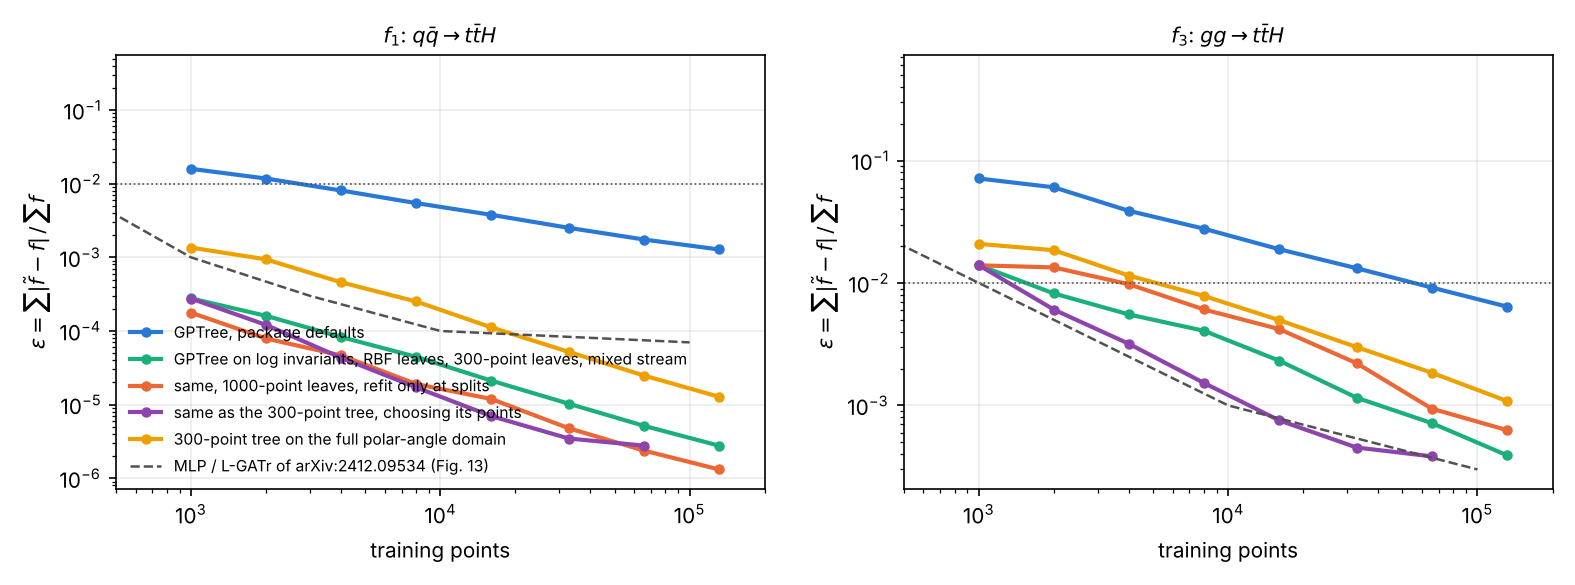
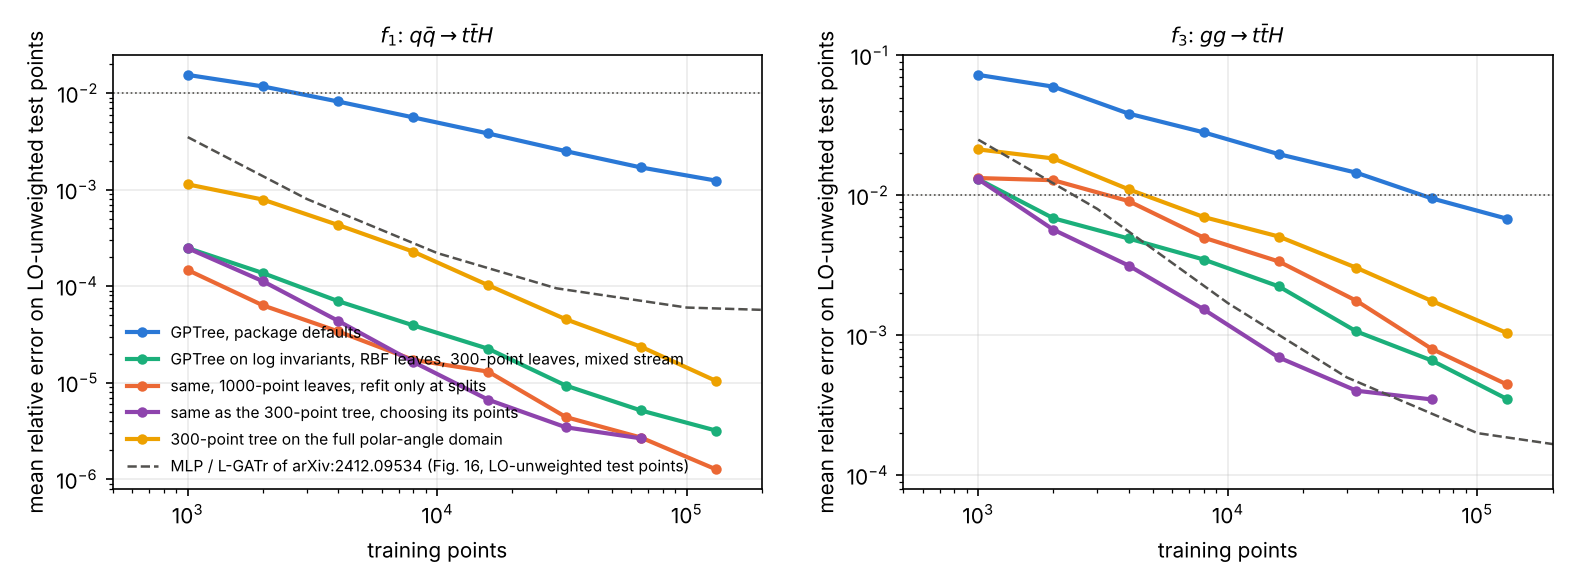
Cite the networks' Figure 16 and compare on their LO-unweighted metric
The reference curves were read from Figure 13 of arXiv:2412.09534, which
shows the sparse grids; the networks are in Figure 16, trained and tested
on unweighted samples. The figure and the tables now use those values on
the same metric, and the f3 conclusion is a factor 2 behind, not level.

Claude-Session: https://claude.ai/code/session_0153hpVKJ5JPDq5CRhfaL7QL

diff --git a/examples/plot_tth_results.py b/examples/plot_tth_results.py
@@ -1,10 +1,11 @@
 """Figures for the 5D ttH benchmark: eps against the number of training points, from the
 result files of tth_amplitude_benchmark.py, with the networks of arXiv:2412.09534
-(values read off their Figure 13) as reference.
+(values read off their Figure 16, on LO-unweighted test points) as reference.
 
 eps_vs_points.png: the package defaults (tree, tree choosing its points, hybrid, larger network).
 eps_vs_points_improved.png: log-invariant inputs, RBF leaves and f-weighted training points.
-eps_vs_points_paper_weights.png: the same with the paper's weights (flux and pseudo-PDF factor).
+eps_vs_points_paper_weights.png: the same with the paper's weights (flux and pseudo-PDF factor), on
+the networks' metric, the mean relative error on LO-unweighted test points.
 
 Usage: python plot_tth_results.py [results_dir]
 """
@@ -19,9 +20,13 @@ import matplotlib.pyplot as plt
 HERE = os.path.dirname(os.path.abspath(__file__))
 OUT_DIR = sys.argv[1] if len(sys.argv) > 1 else os.path.join(HERE, "results", "tth_amplitude")
 NAMES = {"uu": r"$f_1$: $q\bar q \to t\bar t H$", "gg": r"$f_3$: $gg \to t\bar t H$"}
-# MLP and L-GATr of arXiv:2412.09534, Figure 13, read off the plot (uniform test sampling)
-REFERENCE = {"uu": [(10, 0.3), (100, 0.03), (300, 0.01), (1000, 1e-3), (3000, 3e-4), (1e4, 1e-4), (1e5, 7e-5)],
-             "gg": [(10, 0.5), (100, 0.1), (1000, 1e-2), (1e4, 1e-3), (1e5, 3e-4)]}
+# MLP(s) and L-GATr of arXiv:2412.09534, Figure 16: the mean relative error on LO-unweighted test points
+# (their eq. 30), read off the plot by pixel position; the two networks agree to 10-20 %, the mean is given
+REFERENCE = {"uu": [(1000, 3.5e-3), (3000, 8e-4), (1e4, 2.2e-4), (3e4, 9.5e-5), (1e5, 6e-5), (1e6, 5e-5)],
+             "gg": [(1000, 2.5e-2), (3000, 8e-3), (1e4, 1.7e-3), (3e4, 5e-4), (1e5, 2e-4), (1e6, 1.1e-4)]}
+# the metric each figure plots: the paper-weights figure uses the networks' metric
+METRIC = {"eps_vs_points_paper_weights.png": ("eps_unweighted", r"mean relative error on LO-unweighted test points")}
+DEFAULT_METRIC = ("eps_uniform", r"$\epsilon = \sum|\tilde f - f| \,/\, \sum f$ (uniform test points)")
 COLORS = ["#2a78d6", "#1baf7a", "#eb6834", "#8e44ad", "#eda100"]
 
 # (file tag, key suffix, label) per series; {ch} is the channel
@@ -59,18 +64,19 @@ def rows_of(tag, ch, key):
 
 
 for name, series in FIGURES.items():
+    metric, ylabel = METRIC.get(name, DEFAULT_METRIC)
     fig, axes = plt.subplots(1, 2, figsize=(10.5, 3.9))
     for ax, ch in zip(axes, ["uu", "gg"]):
         for (tag, key, label), color in zip(series, COLORS):
             rows = rows_of(tag, ch, key)
             if rows:
-                ax.plot([r["N"] for r in rows], [r["eps_uniform"] for r in rows], "-o", color=color, lw=2, ms=4, label=label)
+                ax.plot([r["N"] for r in rows], [r.get(metric, r["eps_uniform"]) for r in rows], "-o", color=color, lw=2, ms=4, label=label)
         ref = REFERENCE[ch]
         ax.plot([n for n, _ in ref], [e for _, e in ref], "--", color="#52514e", lw=1.2,
-                label="MLP / L-GATr of arXiv:2412.09534 (Fig. 13)")
+                label="MLP / L-GATr of arXiv:2412.09534 (Fig. 16, LO-unweighted test points)")
         ax.axhline(0.01, color="#52514e", lw=0.8, ls=":")
         ax.set_xscale("log"); ax.set_yscale("log"); ax.set_xlim(500, 2e5)
-        ax.set_xlabel("training points"); ax.set_ylabel(r"$\epsilon = \sum|\tilde f - f| \,/\, \sum f$")
+        ax.set_xlabel("training points"); ax.set_ylabel(ylabel)
         ax.set_title(NAMES[ch], fontsize=10); ax.grid(alpha=0.25)
     axes[0].legend(frameon=False, fontsize=7.5, loc="lower left")
     fig.tight_layout()

diff --git a/examples/BENCHMARK_RESULTS_tth_amplitude.md b/examples/BENCHMARK_RESULTS_tth_amplitude.md
@@ -48,47 +48,54 @@ takes the ten `log(p_i · p_j)` as inputs, RBF leaves of 300 or 1000 points, and
 
 ## 2. Results with the paper's weights
 
-`eps_vs_points_paper_weights.png`; ε on the uniform test set, seed 1, one run each.
-Networks: the MLP and L-GATr curves of the paper's Figure 13, read off the plot.
+`eps_vs_points_paper_weights.png`; the networks' metric, the mean relative error on
+LO-unweighted test points (their eq. 30), seed 1, one run each. Networks: the MLP(s)
+and L-GATr curves of the paper's Figure 16 (trained and tested on unweighted
+samples), read off the plot by pixel position; the two agree to 10–20 %, the mean is
+quoted. ε on uniform test points (their eq. 28) is within 20 % of these values for
+every row.
 
-| configuration (ε on the uniform test set, paper's weights) | f1 @4000 | f1 @16000 | f1 @65536 | f1 @131072 | f3 @4000 | f3 @16000 | f3 @65536 | f3 @131072 |
+| configuration (mean relative error on LO-unweighted test points, paper's weights) | f1 @4000 | f1 @16000 | f1 @65536 | f1 @131072 | f3 @4000 | f3 @16000 | f3 @65536 | f3 @131072 |
 |---|---|---|---|---|---|---|---|---|
-| tree, package defaults (cube inputs, Matérn 3/2, Nbar 100, Sobol) | 8.09e-03 | 3.78e-03 | 1.75e-03 | 1.28e-03 | 3.88e-02 | 1.89e-02 | 9.17e-03 | 6.42e-03 |
-| tree on log invariants, RBF leaves, Nbar 300, mixed stream | 8.27e-05 | 2.12e-05 | 5.16e-06 | 2.77e-06 | 5.53e-03 | 2.32e-03 | 7.17e-04 | 3.92e-04 |
-| tree on log invariants, RBF leaves, Nbar 1000 refit only at splits, mixed stream | 4.65e-05 | 1.19e-05 | 2.38e-06 | 1.32e-06 | 9.76e-03 | 4.20e-03 | 9.41e-04 | 6.29e-04 |
-| tree on log invariants, RBF leaves, Nbar 300, importance-sampled stream | 1.22e-04 | 3.07e-05 | 7.55e-06 | – | 6.44e-03 | 2.28e-03 | 7.34e-04 | – |
-| tree on log invariants, RBF leaves, Nbar 1000 refit only at splits, importance-sampled stream | 6.87e-05 | 1.67e-05 | 4.33e-06 | – | 7.02e-03 | 3.05e-03 | 8.13e-04 | – |
-| tree on log invariants, RBF leaves, Nbar 300, chooses its points from the mixed pool | 4.33e-05 | 6.99e-06 | 2.78e-06 | – | 3.18e-03 | 7.56e-04 | 3.84e-04 | – |
-| tree on log invariants, RBF leaves, Nbar 300, importance-sampled stream with 20 % KDE-targeted points | – | – | – | – | 5.32e-03 | 1.76e-03 | 5.78e-04 | – |
-| the same stream with the KDE points after the first 16 384 | – | – | – | – | 6.44e-03 | 2.28e-03 | 6.10e-04 | – |
-| FULL DOMAIN: tree, package defaults | 1.63e-02 | 8.00e-03 | 3.52e-03 | 2.58e-03 | 7.29e-02 | 3.77e-02 | 1.87e-02 | 1.36e-02 |
-| FULL DOMAIN: tree on log invariants, RBF leaves, Nbar 300, mixed stream | 4.58e-04 | 1.12e-04 | 2.48e-05 | 1.28e-05 | 1.15e-02 | 4.97e-03 | 1.85e-03 | 1.09e-03 |
-| FULL DOMAIN: tree on log invariants, RBF leaves, Nbar 1000 refit only at splits, mixed stream | 4.53e-04 | 1.08e-04 | 2.24e-05 | 8.07e-06 | 1.91e-02 | 5.90e-03 | 2.05e-03 | 1.09e-03 |
-| MLP / L-GATr of arXiv:2412.09534, Fig. 13 (read off the plot) | 3e-4 | 9e-5 | 8e-5 | 7e-5 | 7e-3 | 8e-4 | 4e-4 | 3e-4 |
+| tree, package defaults (cube inputs, Matérn 3/2, Nbar 100, Sobol) | 8.19e-03 | 3.82e-03 | 1.70e-03 | 1.24e-03 | 3.84e-02 | 1.97e-02 | 9.52e-03 | 6.82e-03 |
+| tree on log invariants, RBF leaves, Nbar 300, mixed stream | 7.00e-05 | 2.24e-05 | 5.15e-06 | 3.18e-06 | 4.92e-03 | 2.24e-03 | 6.61e-04 | 3.51e-04 |
+| tree on log invariants, RBF leaves, Nbar 1000 refit only at splits, mixed stream | 3.40e-05 | 1.30e-05 | 2.70e-06 | 1.26e-06 | 9.11e-03 | 3.37e-03 | 8.01e-04 | 4.46e-04 |
+| tree on log invariants, RBF leaves, Nbar 300, importance-sampled stream | 9.14e-05 | 2.10e-05 | 6.03e-06 | – | 5.33e-03 | 2.01e-03 | 6.13e-04 | – |
+| tree on log invariants, RBF leaves, Nbar 1000 refit only at splits, importance-sampled stream | 5.56e-05 | 1.30e-05 | 2.97e-06 | – | 5.32e-03 | 2.32e-03 | 6.04e-04 | – |
+| tree on log invariants, RBF leaves, Nbar 300, chooses its points from the mixed pool | 4.37e-05 | 6.65e-06 | 2.65e-06 | – | 3.15e-03 | 6.94e-04 | 3.48e-04 | – |
+| tree on log invariants, RBF leaves, Nbar 300, importance-sampled stream with 20 % KDE-targeted points | – | – | – | – | 4.71e-03 | 1.72e-03 | 5.68e-04 | – |
+| the same stream with the KDE points after the first 16 384 | – | – | – | – | 5.33e-03 | 2.01e-03 | 5.38e-04 | – |
+| FULL DOMAIN: tree, package defaults | 1.57e-02 | 7.54e-03 | 3.44e-03 | 2.53e-03 | 6.94e-02 | 3.75e-02 | 1.79e-02 | 1.33e-02 |
+| FULL DOMAIN: tree on log invariants, RBF leaves, Nbar 300, mixed stream | 4.31e-04 | 1.02e-04 | 2.35e-05 | 1.04e-05 | 1.11e-02 | 5.08e-03 | 1.76e-03 | 1.04e-03 |
+| FULL DOMAIN: tree on log invariants, RBF leaves, Nbar 1000 refit only at splits, mixed stream | 3.75e-04 | 9.31e-05 | 2.04e-05 | 7.89e-06 | 1.97e-02 | 6.92e-03 | 2.23e-03 | 1.09e-03 |
+| MLP(s) / L-GATr of arXiv:2412.09534, Fig. 16 (read off the plot) | 6e-4 | 1.6e-4 | 6.8e-5 | 5.6e-5 | 5.5e-3 | 1.1e-3 | 2.7e-4 | 1.7e-4 |
 
 ### 2.1 Against the paper's networks
 
-* **f1 is won by 25 to 50 times.** The 300-point tree on the invariants reaches
-  2.8e-6 at 131 072 points (median relative error 4e-7, every test point within
-  1 %) against the networks' 7e-5 at 10⁵; the 1000-point tree refitted only at
-  splits reaches 1.3e-6, and both curves keep falling as N⁻¹ where the networks'
-  flatten. Choosing its points, the 300-point tree is at 7.0e-6 at 16 000, where
-  the networks are at 9e-5.
-* **f3 is level with the networks.** The 300-point tree on the mixed stream ends
-  at 3.9e-4 against their 3e-4 at 10⁵; choosing its points it follows their curve
-  from 16 000 on (7.6e-4 against 8e-4) and reaches 3.8e-4 at 65 536, where they
-  are near 4e-4. The 1000-point leaves that help f1 hurt f3 here (6.3e-4): under
-  the pseudo-PDF the error that counts sits at low β², near threshold, where the
-  amplitude varies fastest and the smaller, more often refitted leaves do better.
-* **The folding is worth a factor 3 to 5 at equal N** (1.3e-5 against 2.8e-6 on
-  f1, 1.1e-3 against 3.9e-4 on f3 at 131 072), as four times the point density
-  should give. On the full domain, which is what the networks were trained on, the
-  300-point tree is 5 times below them on f1 and 3.6 times above them on f3 at
-  131 072; 1000-point leaves bring f1 to 8.1e-6 and leave f3 at 1.1e-3. The
+* **f1 is far below the networks.** The 300-point tree on the mixed stream reaches
+  3.2e-6 at 131 072 points (median relative error 4e-7, every test point within
+  1 %) against the networks' 5.6e-5 at 1.3·10⁵, 18 times lower; the 1000-point
+  tree refitted only at splits reaches 1.3e-6, 44 times lower, and both curves
+  keep falling as N⁻¹ where the networks' flatten (5.6e-5 → 4.6e-5 from 10⁵ to
+  10⁶ points). Choosing its points, the 300-point tree is at 6.7e-6 at 16 000,
+  where the networks are at 1.6e-4.
+* **f3 is within a factor 2 of the networks.** The 300-point tree on the mixed
+  stream ends at 3.5e-4 against their 1.7e-4 at 1.3·10⁵; choosing its points it is
+  ahead of them at 16 000 (6.9e-4 against 1.1e-3) and 1.3 times behind at 65 536
+  (3.5e-4 against 2.7e-4). The 1000-point leaves that help f1 hurt f3 here
+  (4.5e-4): under the pseudo-PDF the error that counts sits at low β², near
+  threshold, where the amplitude varies fastest and the smaller, more often
+  refitted leaves do better. The networks' f3 curve also flattens (1.9e-4 at 10⁵,
+  1.1e-4 at 10⁶) while the tree's still falls as N⁻⁰·⁹.
+* **The folding is worth a factor 3 at equal N** (1.0e-5 against 3.2e-6 on f1,
+  1.0e-3 against 3.5e-4 on f3 at 131 072), as four times the point density should
+  give. On the full domain, which is what the networks were trained on, the
+  300-point tree is 5 times below them on f1 and 6 times above them on f3 at
+  131 072; 1000-point leaves bring f1 to 7.9e-6 and leave f3 at 1.1e-3. The
   folding is an exact symmetry, so it is legitimate for either side, but the two
   comparisons should be read with that in mind.
 * **The package defaults** (cube inputs, Matérn 3/2, 100-point leaves, Sobol) end
-  at 1.3e-3 and 6.4e-3: the representation, the leaf size and the stream are what
+  at 1.2e-3 and 6.8e-3: the representation, the leaf size and the stream are what
   separate them from the rows above, not the method.
 * **Cost.** 35–55 ms per update for the 300-point tree on the invariants on a
   shared four-core machine; the networks' cost is their training, which the paper
@@ -145,7 +152,8 @@ points there, each at 65 536 points with 300-point leaves:
   would expect.
 * The tree's own acquisition does what the resample does, continuously and with
   no second stage: a factor 1.9 at 65 536 and 3 at 16 000 over the mixed stream.
-  It is the one lever that brings f3 onto the networks' curve at every N.
+  It is the lever that brings f3 closest to the networks' curve: ahead of it at
+  16 000 points, 1.3 times behind at 65 536.
 * Under the paper's weights the pure LO-unweighted stream no longer helps (it
   gave 2 × on the flat-flux metric): 7.3e-4 against the mixed stream's 7.2e-4 with
   300-point leaves, 8.1e-4 with 1000-point ones, and on f1 it is worse (7.6e-6
@@ -233,19 +241,21 @@ with the same gate, whose calls it does not learn from.
 
 ## 3. Exact amplitudes (flat-flux weights): ε against the number of training points
 
-`eps_vs_points.png`; uniform-test ε, with the networks of the paper's Figure 13
-(MLP and L-GATr, read off the plot) for reference.
+`eps_vs_points.png`; uniform-test ε with flat-flux weights, with the networks of the
+paper's Figure 16 (MLP(s) and L-GATr on LO-unweighted test points with the paper's
+weights, read off the plot) for reference. The network columns are on a different
+metric, so they are indicative only; Section 2 has the like-for-like comparison.
 
 | points | f1 tree | f1 acq | f1 hybrid | f1 hybrid, 4 × 256 | f1 paper's networks | f3 tree | f3 acq | f3 hybrid | f3 hybrid, 4 × 256 | f3 paper's networks |
 |---|---|---|---|---|---|---|---|---|---|---|
-| 1000 | 2.7e-2 | 2.7e-2 | 1.8e-2 | 1.5e-2 | 1e-3 | 0.19 | 0.19 | 0.18 | 0.20 | 1e-2 |
+| 1000 | 2.7e-2 | 2.7e-2 | 1.8e-2 | 1.5e-2 | 3.5e-3 | 0.19 | 0.19 | 0.18 | 0.20 | 2.5e-2 |
 | 2000 | 1.9e-2 | 1.7e-2 | 9.6e-3 | 6.6e-3 | | 0.15 | 0.10 | 0.12 | 9.8e-2 | |
-| 4000 | 1.4e-2 | 1.1e-2 | 6.5e-3 | 3.1e-3 | 3e-4 (3000) | 0.12 | 6.5e-2 | 6.8e-2 | 5.0e-2 | |
+| 4000 | 1.4e-2 | 1.1e-2 | 6.5e-3 | 3.1e-3 | 8e-4 (3000) | 0.12 | 6.5e-2 | 6.8e-2 | 5.0e-2 | 8e-3 (3000) |
 | 8000 | 9.6e-3 | 7.4e-3 | 4.2e-3 | 1.9e-3 | | 8.7e-2 | 4.6e-2 | 5.3e-2 | 3.2e-2 | |
-| 16 000 | 6.6e-3 | 5.0e-3 | 2.4e-3 | 1.3e-3 | 1e-4 (10⁴) | 6.4e-2 | 3.5e-2 | 4.2e-2 | 2.0e-2 | 1e-3 (10⁴) |
+| 16 000 | 6.6e-3 | 5.0e-3 | 2.4e-3 | 1.3e-3 | 2.2e-4 (10⁴) | 6.4e-2 | 3.5e-2 | 4.2e-2 | 2.0e-2 | 1.7e-3 (10⁴) |
 | 32 768 | 4.3e-3 | 3.5e-3 | 1.4e-3 | 8.3e-4 | | 4.4e-2 | 2.8e-2 | 2.9e-2 | 1.3e-2 | |
 | 65 536 | 3.0e-3 | | 8.2e-4 | | | 3.1e-2 | | 2.1e-2 | | |
-| 131 072 | 2.2e-3 | | 5.1e-4 | 7e-5 (10⁵) | | 2.3e-2 | | 1.5e-2 | | 3e-4 (10⁵) |
+| 131 072 | 2.2e-3 | | 5.1e-4 | | 6e-5 (10⁵) | 2.3e-2 | | 1.5e-2 | | 2e-4 (10⁵) |
 
 Unweighted-test ε is within 10 % of the uniform one for f1 and 10–20 % above it for
 f3 (the tails of f3 are where the error sits). Update cost: tree 2 ms per point,
@@ -265,8 +275,8 @@ Reading:
 * **Choosing the points by the expected error contribution saves about a third of
   them**: the tree with acquisition reaches at 8000 points what the Sobol order
   reaches at 12 000 (f1) and at 16 000 what Sobol reaches at 30 000 (f3).
-* **The paper's networks are far ahead of these default settings**: 30 to 50
-  times lower ε at 10⁴ points than the default hybrid, 10 to 20 times than the larger
+* **The paper's networks are far ahead of these default settings**: 10 to 25
+  times lower ε at 10⁴ points than the default hybrid, 6 to 12 times than the larger
   network. With the defaults the tree family sits with the paper's classical
   interpolants, which reach 1 % at 10⁴–10⁵ points in 5D. Section 7 shows what
   closes the gap: the inputs, the leaf kernel and size, and the sampling. Every
@@ -328,10 +338,10 @@ of are taken from it.
 ## 6. What this demonstrates
 
 On the paper's own metric (Section 2) the plain tree, given the log-invariants as
-inputs, RBF leaves and the stream an integrator produces, is 25–50 times below the
-paper's networks on f1 and level with them on f3 at 10⁵ points, with no network,
+inputs, RBF leaves and the stream an integrator produces, is 18–44 times below the
+paper's networks on f1 and within a factor 2 of them on f3 at 10⁵ points, with no network,
 learning online, and with its curves still falling where theirs flatten; it matches
-the five-run averages of arXiv:2601.00950 as well. The 30–50 × deficit of the
+the five-run averages of arXiv:2601.00950 as well. The 10–25 × deficit of the
 package defaults (Section 3) is a matter of representation, leaf size and
 sampling, not of the method. On top of that the tree family offers what the
 networks do not: learning from the evaluations as they are made with no
@@ -490,16 +500,16 @@ Reading:
 | tree on log invariants, RBF leaves, `Nbar = 1000`, refit only at splits | 3.4e-6 | 5.8e-4 | 50 ms |
 | hybrid on log invariants, Matérn 3/2 leaves | 9.4e-5 | 1.1e-3 | 11 ms |
 | hybrid on log invariants, 4 × 256 network (65 536 points) | 7.1e-5 | 9.4e-4 | 21 ms |
-| MLP / L-GATr of arXiv:2412.09534 at 10⁵ points (Figure 13) | 7e-5 | 3e-4 | |
+| MLP(s) / L-GATr of arXiv:2412.09534 at 10⁵ points (Figure 16, their metric, indicative) | 6e-5 | 2e-4 | |
 
 * **f1 is solved by the plain tree.** On the log-invariants with RBF leaves it
   matches the paper's networks at 131 072 points (7.5e-5 with Sobol points,
-  5.1e-5 with the mixed stream), and with 300-point leaves it is ten times below
+  5.1e-5 with the mixed stream), and with 300-point leaves it is eight times below
   them (7.4e-6, a median relative error of 4e-7, every test point within 1 %),
   online, at 16 ms per point, with no network. Its curve keeps falling as a power
   law where the networks' flattens.
-* **f3 closes to a factor 2.6.** The tree with 300-point leaves reaches 7.9e-4 and
-  the hybrids 9.4e-4 to 1.1e-3 against the networks' 3e-4, from 13 × worse at the
+* **f3 closes to a factor 4.** The tree with 300-point leaves reaches 7.9e-4 and
+  the hybrids 9.4e-4 to 1.1e-3 against the networks' 2e-4, from 100 × worse at the
   baseline, with no sign of a plateau; the mixed stream alone is worth 4 × on f3
   at 131 072 points (7.9e-3 with Sobol against 1.8e-3), because the error lives in
   the collinear peaks the importance-sampled points populate.
@@ -531,7 +541,7 @@ test set:
 <!-- /nbar1000 table -->
 
 * **f1 gains 2–3 ×** at every point count: 2.3e-5 at 16 000 and 3.4e-6 at
-  131 072 (a median relative error of 2e-7), twenty times below the paper's
+  131 072 (a median relative error of 2e-7), eighteen times below the paper's
   networks at 10⁵ points, and the curve still falls as N⁻¹·¹. With ten length
   scales a leaf is better determined by 1000 points than by 300, and the single
   fit at the split is as good as the 40 refits the smaller leaves get.
@@ -539,7 +549,7 @@ test set:
   16 000, 5.8e-4 against 7.9e-4 at 131 072): its error sits in the collinear
   peaks, where a larger leaf extends the same smooth extrapolation over more
   points rather than resolving the peak (next subsection). At 131 072 points
-  f3 is within a factor 2 of the paper's networks.
+  f3 is within a factor 3 of the paper's networks on this metric.
 * **The cost is 3–4 × per point** (50–80 ms against 16–20; all sweep runs share
   a four-core machine three at a time, so these are relative numbers), from the
   O(n³) factorisations of 1000-point leaves. Refitting such leaves every 250
